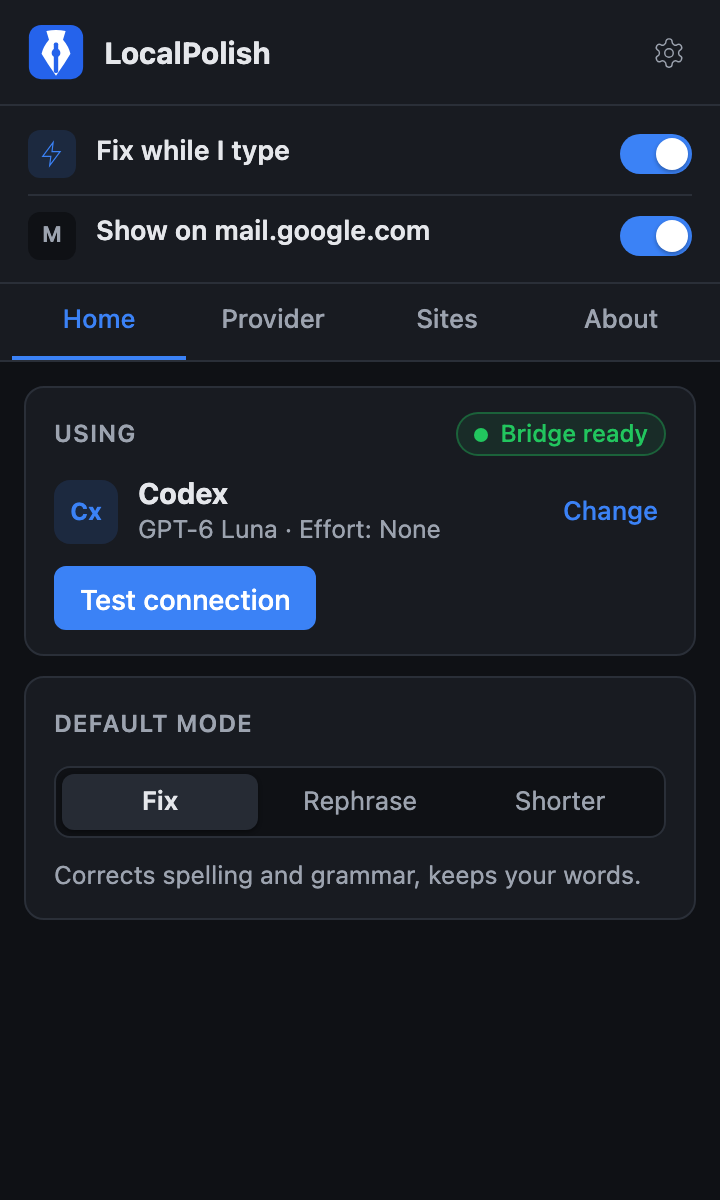
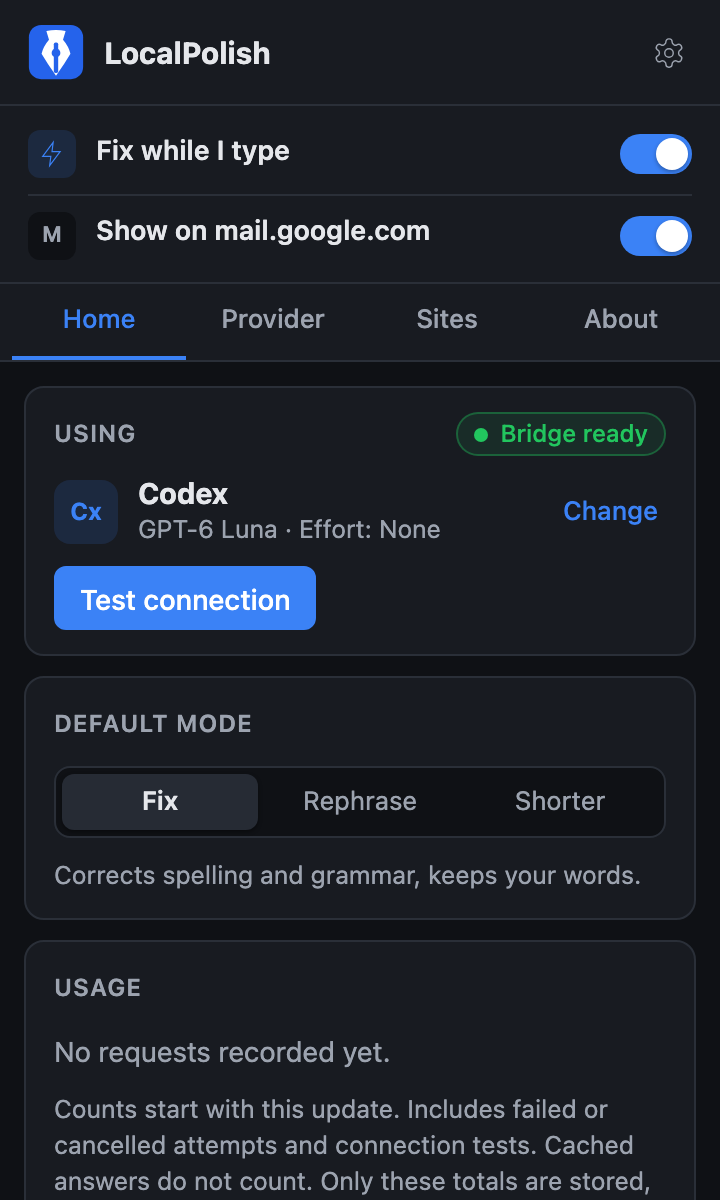
docs: prepare 1.1.0 release notes and record package preflight

Changed region(s): [[0.0611, 0.8633, 0.9167, 1.0], [0.0611, 0.8017, 0.2139, 0.8325]]

diff --git a/docs/releases/1.1.0-draft.md b/docs/releases/1.1.0-draft.md
@@ -1,0 +1,79 @@
+# LocalPolish 1.1.0 release draft
+
+Status: prepared for owner review, not published. No tag or version change has been made.
+
+## Update the bridge
+
+For CLI providers, run `git pull --rebase` in the LocalPolish clone. The installed wrapper loads the bridge code from that clone on the next rewrite.
+
+Reinstall the bridge with `npm run bridge:install` only if the clone path contains a dollar sign, a backtick, or a double quote, or the clone has moved. Normal existing paths keep working.
+
+## Install the extension
+
+Download the attached `localpolish-1.1.0.zip`, extract it, and load the extracted folder with **Load unpacked** on `chrome://extensions`. Existing users should reload the extension and refresh open tabs.
+
+The final release zip and its SHA-256 must be generated after the version change at the release commit. The local preflight package keeps version 1.0.0 and is not the release asset.
+
+## Changes
+
+**New**
+
+- Home and the options page show **Usage**: request counts for each provider and model, with a total. Counts start with this update.
+
+- Request attempts are counted locally by provider and selected model, including failures and Test connection, without storing draft history (T19a).
+
+- First-run setup opens on install with provider, connection test, and Fix while I type controls. Missing-bridge errors stay quiet for idle Fix (F01).
+
+- The rewrite popup has a **Changes | Final** switch. Final shows only the new text, and the popup switches to it when Accept and Copy both fail (F02).
+
+**Safer**
+
+- Content scripts cannot read local storage and receive only site, idle Fix, and default mode settings, keeping API keys in trusted extension contexts (F03).
+
+- Privacy policy explains the tab-memory cache, API key destinations, idle exclusions, and Grok history and X-search limits (A17).
+
+- A02: Settings changes now remove idle markers and cancel automatic work immediately. Blocking a site also hides its selection button, while manual rewrites keep working.
+
+- A01: Blocked sites now keep the button and idle Fix off in child frames, with a second site check for idle requests in the background.
+- A16: Only the focused frame handles the shortcut, so parent frames no longer show an extra toast.
+
+- Idle Fix skips fields that inherit spellcheck off and honors an explicit spellcheck on (A03).
+- API keys over HTTP require a real loopback hostname and cannot use other protocols (A06).
+
+- Bridge cancellation kills resistant descendants before the host exits (A07).
+- The macOS bridge wrapper treats shell-special characters in paths literally (A08).
+
+**Fixes**
+
+- Accept stops before native fallback if a page paste handler moves selection to another editor or changes the selected text (T20).
+
+- Accept pastes into every rich text box first, so editors that keep their own copy of the text (Discord, X, Facebook, Slack, ChatGPT and others) stay in sync and Backspace keeps working. Plain boxes fall back to typing the text in. Tests cover plain, Lexical, Draft.js, Slate, ProseMirror and Quill boxes.
+
+- The options idle checkbox sits beside its label and no longer stretches across its column (T19c).
+
+- Sites labels now cover both the button and Fix while I type.
+
+- Accept stops before pasting if the selection moves to another editor or the selected text changes during the wait (A04).
+- Accept detects changed paragraph splits and rejects ignored line-break rewrites (A05).
+
+- Blocked or unexpectedly ended provider streams fail instead of enabling Accept for partial text (A12).
+- Output cleanup keeps text tags that the input already has (A13).
+- Missing-emoji warnings cover flags, skin tones, families, and keycaps as whole sequences (A14).
+
+- Concurrent settings writes from extension pages preserve independent changes (A09).
+- Damaged stored settings use checked defaults rather than crashing (A11).
+- Site entries share one hostname normalizer, and options identifies invalid entries (A15).
+
+- Failed settings saves stay pending, and Test connection waits for a successful save (A10).
+- The full options page includes the Fix while I type checkbox (A18).
+
+**For contributors**
+
+- Release guide rebases before tagging, explains bridge updates and version rules, and deletes only merged branches (A22).
+- Old benchmark pages now identify their date and point to the current default and Fix prompt.
+
+- Run macOS and Windows bridge tests and Node 22 checks on manual dispatch and `v*` tags (A20).
+
+- Override Draft.js's test-only Immutable dependency to 3.8.4; both dependency audits are clean (A19).
+
+- Audit of 1.0.0 with confirmed findings and evidence, a review of it, and the next-release plan with one brief per task. No runtime changes.

diff --git a/docs/plans/next-release.md b/docs/plans/next-release.md
@@ -1,6 +1,6 @@
 # LocalPolish next-release plan
 
-Status: T15-T20 are implemented and locally verified. The fleet's plan review found one Accept fallback regression, fixed in T20. All local gates pass. The owner reports that the requested provider and editor checks passed. The owner's diff review and remaining release checks are open.
+Status: T15-T20 are implemented and locally verified. Local and remote gates pass, and the owner reports that the requested provider and editor checks passed. The orchestrator verified blocked embedded editors and Test connection using the extracted local package in a fresh browser profile. Release notes and refreshed screenshots are ready. The owner's final review, release version, publication, and published-package verification remain.
 Based on: [the 1.0.0 audit](../audits/1.0.0.md) (Sol, 18 October 2026) and Claude's review of it below.
 Baseline: `v1.0.0`, commit `71d5cbf`.
 
@@ -112,10 +112,14 @@ Changes to the plan, compared with Sol's draft:
 - [x] `npm audit` (full and `--omit=dev`) has no unreviewed high finding.
 - [ ] CI is green at the release commit, including the new macOS, Windows and Node 22 jobs.
 - [x] Owner's requested provider and editor checks: rewrite fixed sample text with the configured Claude CLI, Codex CLI, and API provider in Discord and a plain text box; Accept inserts the correction and Backspace works. Owner reported "passed" on 19 October 2026. Individual platform and provider results were not listed.
-- [ ] Owner, by hand: block a site and check that an editor in an iframe on it sends nothing. This separate check was not included in the instructions the owner confirmed above. Automated blocked-frame regressions pass. Never submit a draft.
+- [x] Blocked embedded-editor check, completed by the orchestrator in Chromium instead of asking the owner to construct a test page. Loaded the extracted local zip in a fresh profile, blocked the parent through the real options page, and typed fixed sample text into cross-host, `srcdoc`, and `about:blank` frames. Each sent zero requests and showed no marker or selection button after 4.5 seconds. Unblocking produced one request and its marker. The provider was the local mock; no real drafts or providers were used.
+- [x] Local package preflight: zip integrity and contents passed; the extracted extension installed in a fresh profile, Test connection reached the local mock with the fake key, and Usage recorded both the test and the unblocked rewrite. The repository version remains 1.0.0; this is an unpublished preflight, not the 1.1.0 release asset.
+- [x] Refreshed toolbar screenshots with `npm run shots` and opened all five images. Prepared [1.1.0 release notes](../releases/1.1.0-draft.md) for owner review. Version, changelog release heading, and install zip name remain unchanged until release day.
 - [ ] Follow the corrected `RELEASING.md`. Download the published zip, check its SHA-256, load it in a fresh profile, and press Test connection.
 
 ## Implementation notes
+
[1 lines of base64/hex data omitted]
 
 - T15a: all gates passed. 224 unit tests passed, 1 Windows-only test skipped, and 94 browser tests passed. Each blocked iframe stays focused for the full idle delay in its regression test. Reusable skill: none.
 
